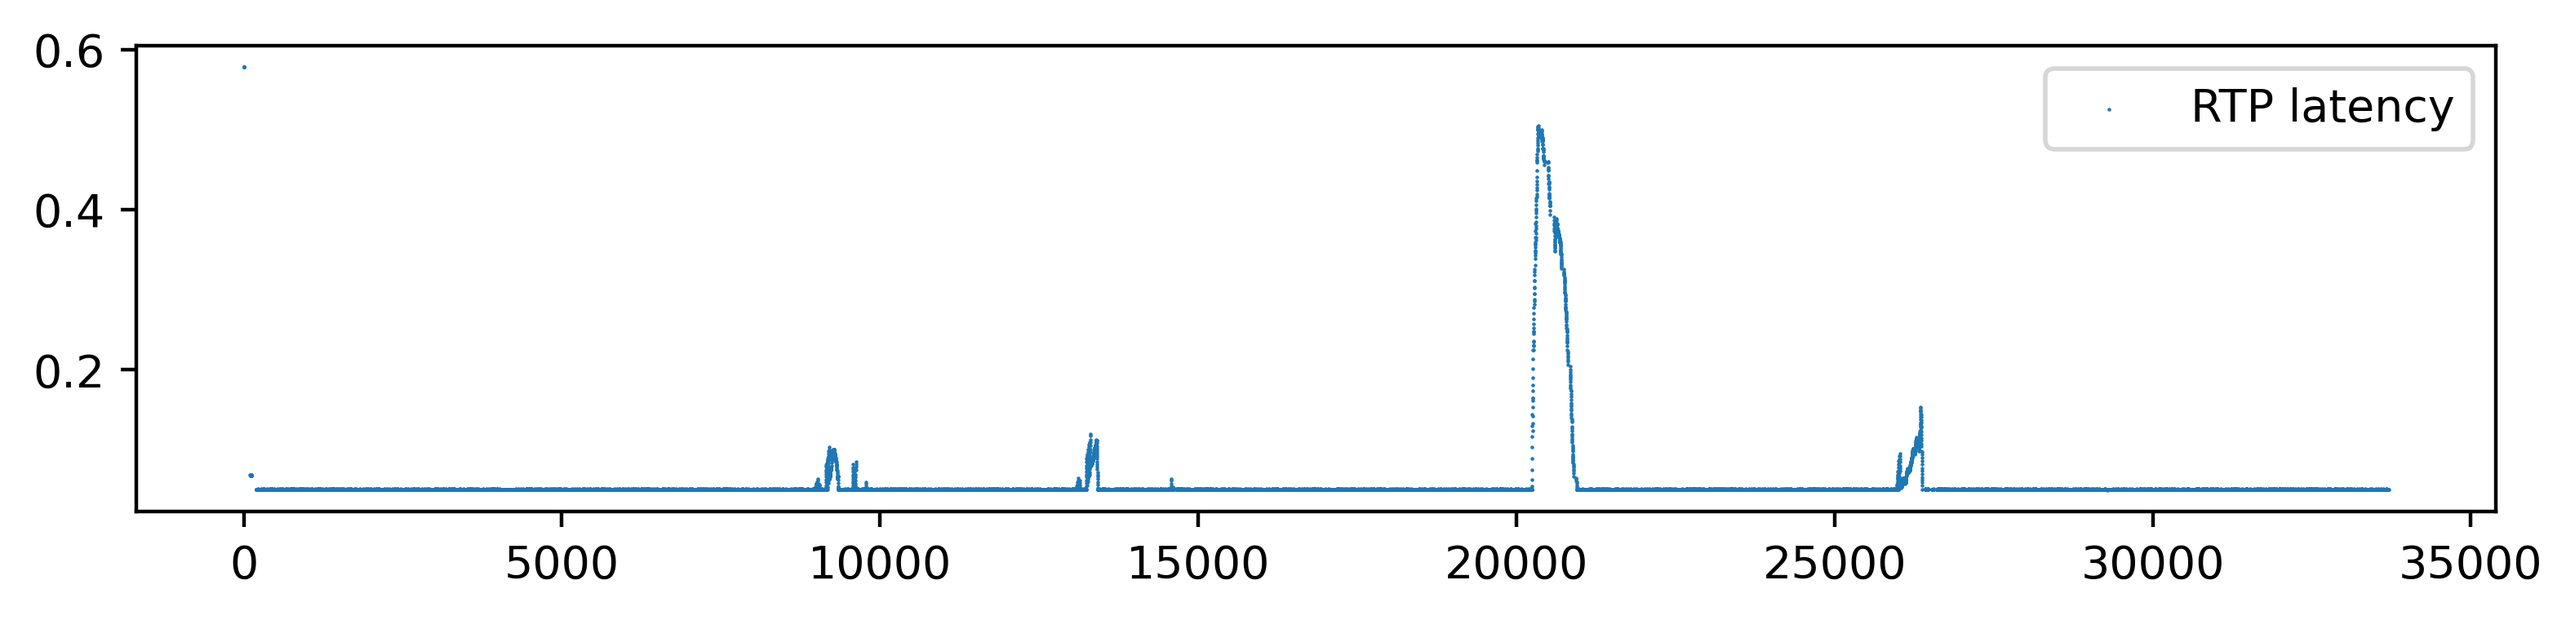
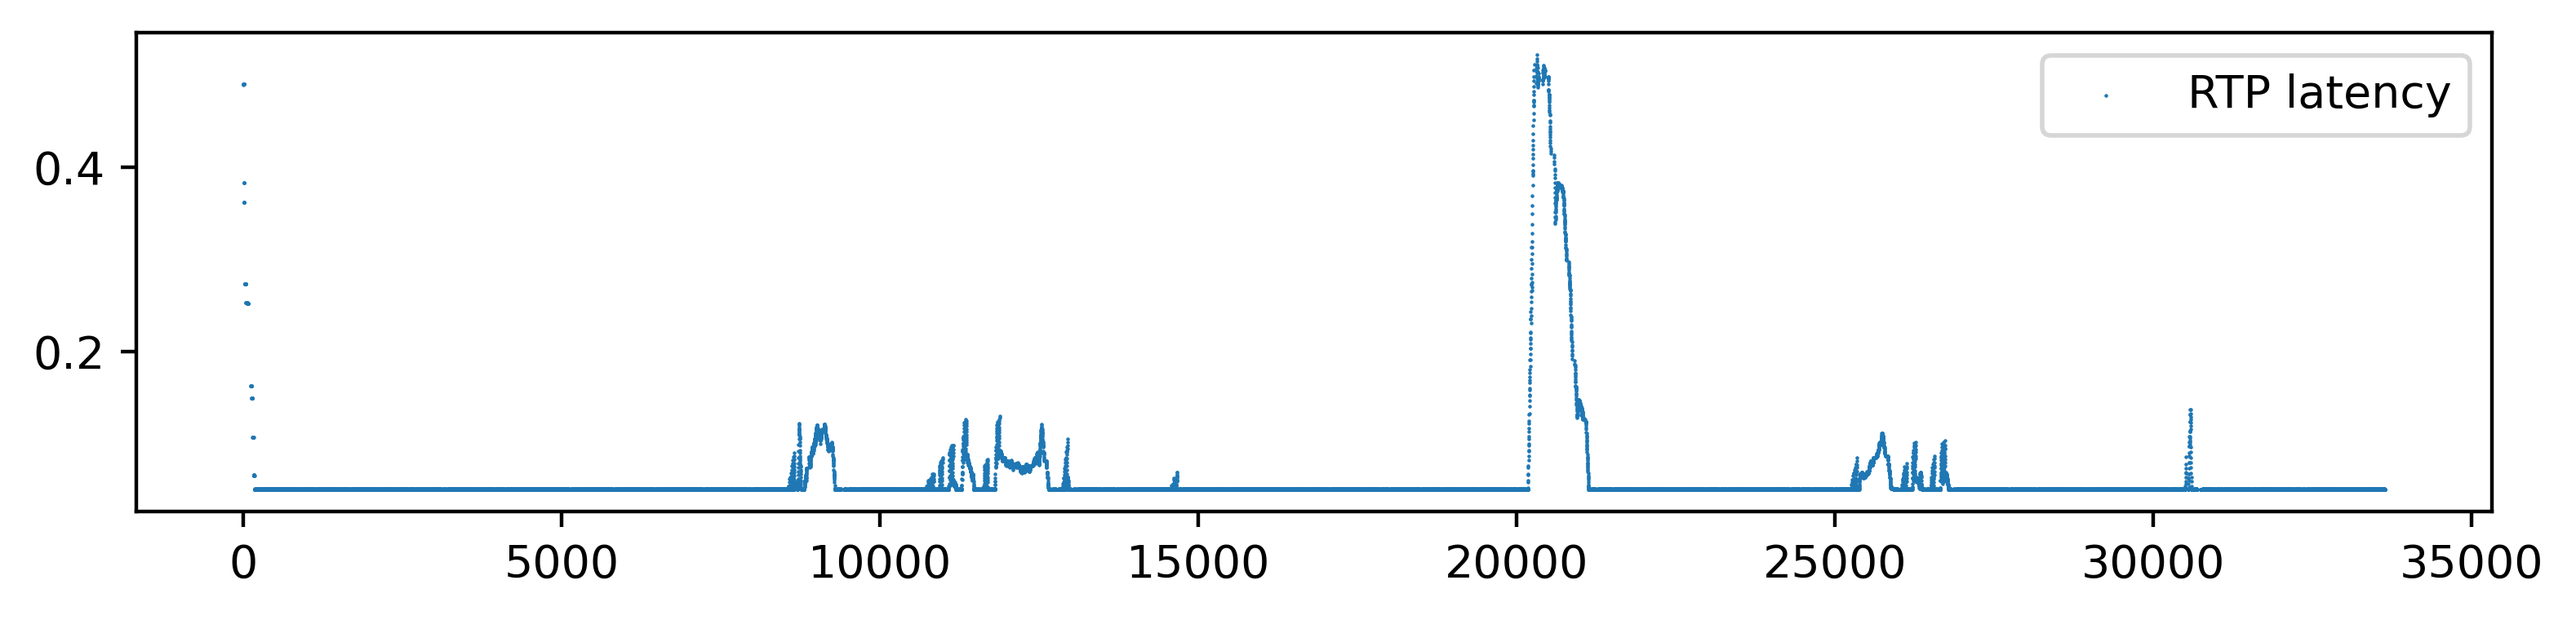
Add experiments without RTCP

diff --git a/README.md b/README.md
@@ -25,18 +25,24 @@ Here are some sample results for the four default configurations.
 All tests use QUIC Datagrams to send RTP packets.
 The test uses a sequence from [Sintel](https://en.wikipedia.org/wiki/Sintel).
 
+### UDP + SCReAM
+
+Sends RTP over UDP using SCReAM for reference/comparison with QUIC.
+
+![UDP-SCReAM](plots/6_rates.png)
+
 ### QUIC + SCReAM
 
 Use SCReAM congestion control for RTP.
 SCReAM runs at the application layer, QUIC's congestion control is disabled.
 
-![QUIC-SCReAM](plots/0_rates.png)
+![QUIC-SCReAM](plots/2_rates.png)
 
 ### QUIC + SCReAM + NewReno
 
 Use SCReAM congestion control for RTP. SCReAM runs at the application layer and QUIC's NewReno congestion control is enabled.
 
-![QUIC-SCReAM-NewReno](plots/2_rates.png)
+![QUIC-SCReAM-NewReno](plots/0_rates.png)
 
 ### QUIC + SCReAM + NewReno + Stream
 
@@ -47,8 +53,28 @@ The data sent on the stream is only congestion controlled by the same NewReno co
 
 ![QUIC-SCReAM-NewReno-Stream](plots/1_rates.png)
 
-### UDP + SCReAM
+### QUIC + SCReAM + No RTCP
 
-Sends RTP over UDP using SCReAM for reference/comparison with QUIC.
+Use SCReAM congestion control for RTP.
+SCReAM runs at the application layer, QUIC's congestion control is disabled.
+Instead of using RTCP, congestion control feedback is collected from QUIC connection statistics.
 
-![UDP-SCReAM](plots/3_rates.png)
+![QUIC-SCReAM](plots/5_rates.png)
+
+### QUIC + SCReAM + NewReno + No RTCP
+
+Use SCReAM congestion control for RTP. SCReAM runs at the application layer and QUIC's NewReno congestion control is enabled.
+Instead of using RTCP, congestion control feedback is collected from QUIC connection statistics.
+
+![QUIC-SCReAM-NewReno](plots/3_rates.png)
+
+### QUIC + SCReAM + NewReno + Stream + No RTCP
+
+Use SCReAM congestion control for RTP.
+SCReAM runs at the application layer and QUIC's NewReno congestion control is enabled.
+Next to sending the RTP Datagrams, the application also opens a QUIC stream to send.
+The data sent on the stream is only congestion controlled by the same NewReno controller.
+Instead of using RTCP, congestion control feedback is collected from QUIC connection statistics.
+
+![QUIC-SCReAM-NewReno-Stream](plots/4_rates.png)
+
